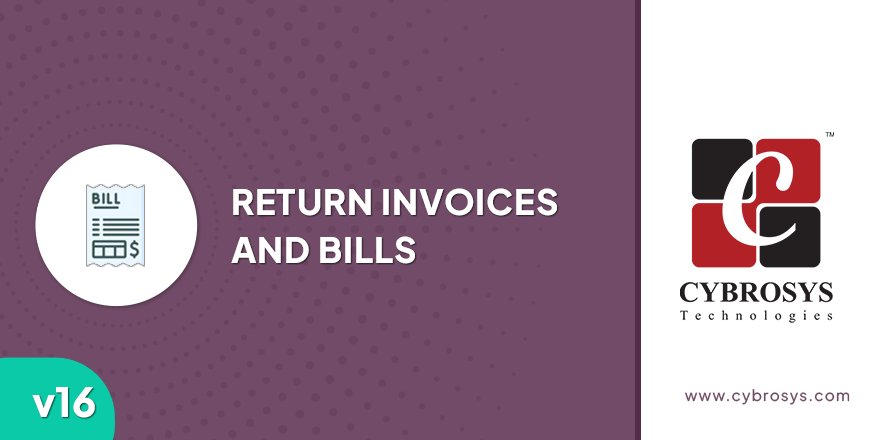
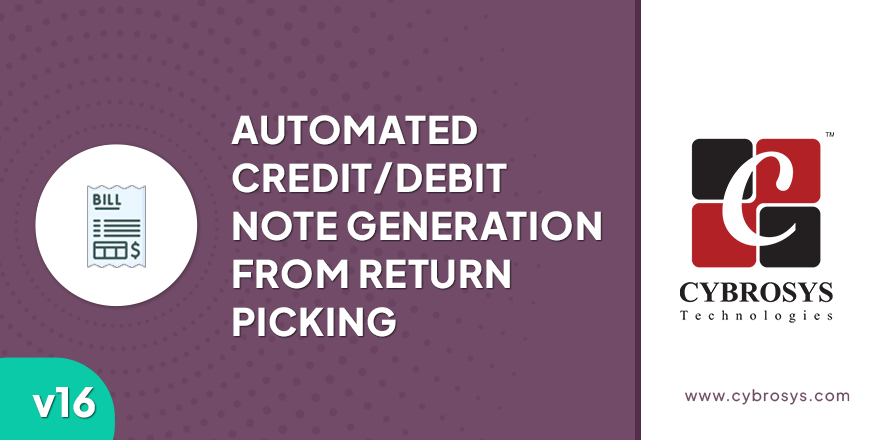
Aug 07: [FIX] Bug Fixed 'return_invoice_bill'

Changed region(s): [[0.2455, 0.2364, 0.7057, 0.7682], [0.092, 0.4136, 0.1841, 0.6205]]

diff --git a/return_invoice_bill/static/description/index.html b/return_invoice_bill/static/description/index.html
@@ -28,7 +28,7 @@
             <div class="col-sm-12 col-md-12 col-lg-12">
                 <!-- APP HERO -->
                 <h1 style="color: #FFFFFF; font-weight: bolder; font-size: 50px; text-align: center; margin-top: 50px;">
-                    Return Invoices And Bills</h1>
+                    Automated Credit/Debit Note Generation from Return Picking</h1>
                 <p style="color:#FFFFFF; padding: 8px 15px; text-align: center; font-size: 24px;">
                     Allows Us To Return The Credit Note And Debit Note From The
                     Corresponding Return Form .</p>

diff --git a/return_invoice_bill/wizard/return_move.py b/return_invoice_bill/wizard/return_move.py
@@ -38,16 +38,40 @@ class ReturnMove(models.TransientModel):
         if not active_id:
             raise ValidationError("No active_id found in the context.")
         return_id = self.env['stock.return.picking'].browse(active_id)
-        return_id.create_returns()
+        new_picking_id = return_id.create_returns()
+        new_picking = self.env['stock.picking'].browse(
+            int(new_picking_id['res_id']))
         picking_id = return_id.picking_id
         sale_invoice_ids = picking_id.sale_id.invoice_ids
         purchase_invoice_ids = picking_id.purchase_id.invoice_ids
-        if sale_invoice_ids and sale_invoice_ids.state == 'posted' or \
-                purchase_invoice_ids and purchase_invoice_ids.state == 'posted':
-            invoice_ids = sale_invoice_ids if picking_id.picking_type_code == 'outgoing' else purchase_invoice_ids
-            reverse_moves = invoice_ids._reverse_moves()
-            reverse_moves.write({'invoice_date': fields.date.today()})
-            reverse_moves._post(soft=False)
+        sale_all_posted = all(element == 'posted' for element in
+                              sale_invoice_ids.mapped(
+                                  'state')) if sale_invoice_ids else False
+        purchase_all_posted = all(element == 'posted' for element in
+                                  purchase_invoice_ids.mapped(
+                                      'state')) if purchase_invoice_ids else False
+        if sale_all_posted or purchase_all_posted:
+            new_picking.action_set_quantities_to_reservation()
+            new_picking.button_validate()
+            if picking_id.sale_id:
+                action = self.env['sale.advance.payment.inv'].create(
+                    {'sale_order_ids': [
+                        fields.Command.link(
+                            picking_id.sale_id.id)]})
+                invoice = action._create_invoices(picking_id.sale_id)
+                move_id = self.env['account.move'].browse(invoice.id)
+            else:
+                invoice = picking_id.purchase_id.action_create_invoice()
+                move_id = self.env['account.move'].browse(invoice.get('res_id'))
+                move_id.invoice_date = fields.Date.today()
+            move_id.action_post()
+            return {
+                'type': 'ir.actions.act_window',
+                'view_mode': 'form',
+                'res_model': 'account.move',
+                'target': 'current',
+                'res_id': move_id.id,
+            }
         else:
             raise ValidationError(
                 "The selected picking should have at least one posted invoice.")

diff --git a/return_invoice_bill/models/stock_return_picking.py b/return_invoice_bill/models/stock_return_picking.py
@@ -38,7 +38,11 @@ class StockReturnPicking(models.TransientModel):
         active_id = self.env.context['active_id']
         if active_model == 'stock.picking' and active_id:
             stock_picking = self.env[active_model].browse(active_id)
-            result['picking_type_name'] = stock_picking.picking_type_id.name
+            picking_type = stock_picking.picking_type_id
+            result['picking_type_name'] = self.env['ir.model.data'].search([
+                ('model', '=', 'stock.picking.type'),
+                ('res_id', '=', picking_type.id)
+            ]).complete_name
         return result
 
     def _update_stock_picking(self):

diff --git a/return_invoice_bill/__manifest__.py b/return_invoice_bill/__manifest__.py
@@ -20,8 +20,8 @@
 #
 ##############################################################################
 {
-    "name": "Returning Invoices And Bills",
-    "version": "16.0.1.0.0",
+    "name": "Automated Credit/Debit Note Generation from Return Picking",
+    "version": "16.0.1.1.0",
     "category": "Sales",
     "summary": "For creating credit note and debit note while picking.",
     "description": "We can create credit note or debit note while return the"

diff --git a/return_invoice_bill/README.rst b/return_invoice_bill/README.rst
@@ -2,9 +2,9 @@
    :target: https://www.gnu.org/licenses/agpl-3.0-standalone.html
    :alt: License: AGPL-3
 
-Return Invoices And Bills
-=========================
-This module allow to return the invoice  or bill while picking the product in Odoo15.
+Automated Credit/Debit Note Generation from Return Picking
+==========================================================
+This module allow to return the invoice  or bill while picking the product in Odoo16.
 
 Company
 -------

diff --git a/return_invoice_bill/doc/RELEASE_NOTES.md b/return_invoice_bill/doc/RELEASE_NOTES.md
@@ -3,4 +3,11 @@
 #### 27.02.2024
 #### Version 16.0.1.0.0
 #### ADD
-- Initial commit for Return Invoices And Bills     
+- Initial commit for Automated Credit/Debit Note Generation from Return Picking     
+
+#### 05.08.2024
+#### Version 16.0.1.1.0
+#### UPDT
+
+- Updated the return invoice line based on the return quantity.
+- Fixed the issues while changing the language.
